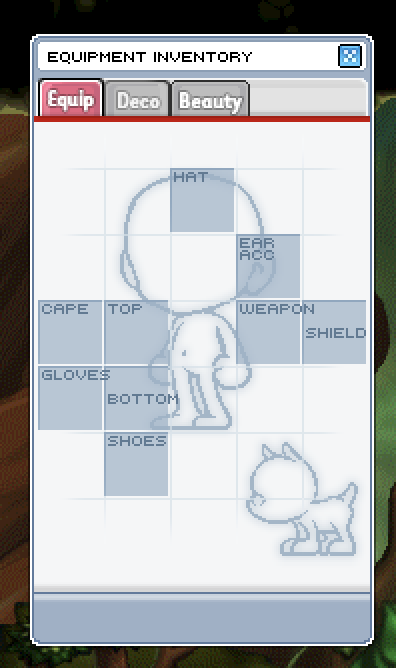
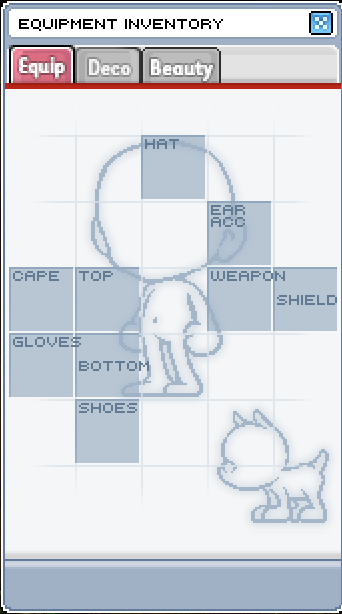
Crop inventory background to equipment window

diff --git a/index.html b/index.html
@@ -39,12 +39,12 @@
     .modal{max-height:90vh;overflow-y:auto}.item-results{max-height:190px;overflow:auto;border:1px solid #e4e8e1;border-radius:8px;background:#fff;margin-top:7px}.catalog-option{width:100%;border:0;border-bottom:1px solid #f0f2ee;background:#fff;padding:9px 10px;text-align:left;display:flex;justify-content:space-between;gap:10px;color:#2c342d}.catalog-option:last-child{border-bottom:0}.catalog-option:hover,.catalog-option:focus{background:#edf5ed;outline:0}.catalog-option-name{font-weight:600;font-size:12px}.catalog-option-meta{font:10px 'DM Mono',monospace;color:#829082;white-space:nowrap}.catalog-empty{padding:12px;color:#879087;font-size:11px}.catalog-note{padding:7px 10px;border-top:1px solid #f0f2ee;color:#879087;font-size:10px}.selected-item{border:1px solid #dbe8dc;background:#f3f8f2;border-radius:8px;padding:10px 12px;margin:-2px 0 13px}.selected-item strong{display:block;font-size:12px}.selected-item span{display:block;color:#708070;font-size:10px;margin-top:3px}.catalog-credit{font-size:10px;color:#929b91;margin:7px 0 0}.catalog-credit a{color:#607862}.scroll-editor{border-top:1px solid #edf0eb;padding-top:11px;margin-top:12px}.scroll-editor h3{font:700 12px Manrope,sans-serif;margin:0 0 4px}.scroll-editor-note{font-size:10px;color:#879087;margin:0 0 9px}.scroll-row{display:grid;grid-template-columns:minmax(0,1fr) 92px;gap:7px;align-items:center;padding:5px 0;border-bottom:1px solid #f0f2ee}.scroll-row label{font:10px 'DM Mono',monospace;color:#768276}.scroll-row select{min-width:0;width:100%;border:1px solid #e4e8e1;border-radius:7px;background:#fff;color:#39443b;padding:7px 8px;font:10px 'DM Sans',sans-serif}.scroll-row select:disabled{background:#f4f5f2;color:#a0a79f}.scroll-row .scroll-choice{grid-column:1/-1}.scroll-row .scroll-result{grid-column:2;grid-row:1}.scroll-row-head{grid-column:1/-1;display:flex;justify-content:space-between;align-items:center}.scroll-row-head span{font-size:9px;color:#8b968b}.scroll-foot{font:10px 'DM Mono',monospace;text-align:right;color:#718271;padding-top:7px}
     .scroll-list{max-height:330px;overflow:auto;border-top:1px solid #eef1ec}.scroll-row{display:grid;grid-template-columns:minmax(0,1fr) 112px;align-items:center;gap:9px;padding:9px 3px}.scroll-row-info strong{display:block;color:#303b32;font-size:11px;line-height:1.35}.scroll-row-info span{display:block;color:#879087;font:9px/1.4 'DM Mono',monospace;margin-top:3px}.scroll-qty{display:flex;align-items:center;justify-content:flex-end;gap:4px}.scroll-qty button{width:25px;height:27px;border:1px solid #dfe5dd;border-radius:6px;background:#f8faf7;color:#617263;font-weight:700}.scroll-qty button:disabled{opacity:.4;cursor:default}.scroll-qty input{width:39px;height:27px;border:1px solid #dfe5dd;border-radius:6px;text-align:center;font:11px 'DM Mono',monospace;color:#28382b}.scroll-foot{font:10px 'DM Mono',monospace;text-align:right;color:#718271;padding-top:8px}
     /* Use the supplied MapleStory inventory capture as the actual equipment panel. */
-    .gear-card{position:relative;justify-self:center;width:min(100%,396px);max-width:396px;aspect-ratio:396/668;height:auto;padding:0;border:0;border-radius:0;overflow:visible;background:#10140f url('assets/equipment-inventory.png') top center/100% 100% no-repeat;box-shadow:none}
-    .inventory-title,.inv-tabs{display:none}.inventory-board{position:absolute;top:18.11%;left:7.58%;right:7.58%;height:71.26%;min-height:0;margin:0;overflow:visible;background:none;border:0}.avatar-watermark{display:none}.slot-grid{position:absolute;left:2.68%;top:9.87%;width:98.2%;height:83.2%;display:grid;grid-template-columns:repeat(5,20%);grid-template-rows:repeat(6,16.6667%);gap:0;padding:0}
+    .gear-card{position:relative;justify-self:center;width:min(100%,342px);max-width:342px;aspect-ratio:342/614;height:auto;padding:0;border:0;border-radius:0;overflow:visible;background:#f4f6f6 url('assets/equipment-inventory.png') top center/100% 100% no-repeat;box-shadow:none}
+    .inventory-title,.inv-tabs{display:none}.inventory-board{position:absolute;top:14.33%;left:.3%;right:1.46%;height:77.2%;min-height:0;margin:0;overflow:visible;background:none;border:0}.avatar-watermark{display:none}.slot-grid{position:absolute;left:2.68%;top:9.92%;width:98.2%;height:83.5%;display:grid;grid-template-columns:repeat(5,20%);grid-template-rows:repeat(6,16.6667%);gap:0;padding:0}
     .slot{width:95%;height:95%;min-height:0;padding:2px;border:1px solid transparent;border-radius:0;background:transparent;box-shadow:none;display:flex;align-items:center;justify-content:center;overflow:hidden}.slot:hover{border-color:#4d7890;background:#ffffff25;transform:none}.slot-label{position:absolute;top:2px;left:4px;width:auto;max-width:90%;color:#526f7e;font:10px/12px 'DM Mono',monospace;text-transform:uppercase;text-align:left;text-shadow:0 1px #edf5f8}.slot.has-bg-label .slot-label{display:none}.slot-name{position:absolute;left:3px;right:3px;bottom:4px;z-index:2;color:#263e4a;background:#f2f7f4c9;font:9px/11px 'DM Sans',sans-serif;text-align:center;white-space:nowrap;text-overflow:ellipsis;overflow:hidden}.slot.empty .slot-name{display:none}.slot:not(.empty){border-color:#51778a;background:#ffffff1c}.slot.unsupported{cursor:not-allowed;opacity:.72;background:transparent}.slot.unsupported:hover{transform:none;border-color:transparent;background:transparent}.slot.unsupported .slot-label{font-size:9px}.slot.unsupported .slot-name{display:block;bottom:2px;font-size:7px;color:#344d59;background:#edf2f2c9}
-    .gear-foot{position:absolute;z-index:2;left:9.2%;right:8%;bottom:4.1%;height:5.9%;margin:0;padding:0 5px;border:0;background:transparent;color:#526671;font:10px 'DM Mono',monospace}.clear-btn{color:#526977;font:10px 'DM Sans',sans-serif}
-    @media(max-width:760px){.gear-card{width:min(100%,396px);max-width:396px;margin:0 auto;padding:0}.inventory-board{top:18.11%;left:7.58%;right:7.58%;height:71.26%;min-height:0}.slot-grid{grid-template-columns:repeat(5,20%);grid-template-rows:repeat(6,16.6667%);gap:0;padding:0}.slot{width:95%;height:95%;min-height:0}.side{grid-template-columns:1fr}}
-    @media(min-width:761px) and (max-width:960px){.gear-card{width:min(100%,396px);max-width:396px}.slot-grid{grid-template-columns:repeat(5,20%);grid-template-rows:repeat(6,16.6667%)}}
+    .gear-foot{position:absolute;z-index:2;left:1.75%;right:1.46%;bottom:.8%;height:7.3%;margin:0;padding:0 5px;border:0;background:transparent;color:#526671;font:10px 'DM Mono',monospace}.clear-btn{color:#526977;font:10px 'DM Sans',sans-serif}
+    @media(max-width:760px){.gear-card{width:min(100%,342px);max-width:342px;margin:0 auto;padding:0}.inventory-board{top:14.33%;left:.3%;right:1.46%;height:77.2%;min-height:0}.slot-grid{grid-template-columns:repeat(5,20%);grid-template-rows:repeat(6,16.6667%);gap:0;padding:0}.slot{width:95%;height:95%;min-height:0}.side{grid-template-columns:1fr}}
+    @media(min-width:761px) and (max-width:960px){.gear-card{width:min(100%,342px);max-width:342px}.slot-grid{grid-template-columns:repeat(5,20%);grid-template-rows:repeat(6,16.6667%)}}
   </style>
 </head>
 <body>
